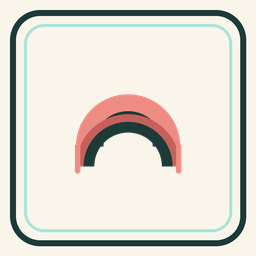
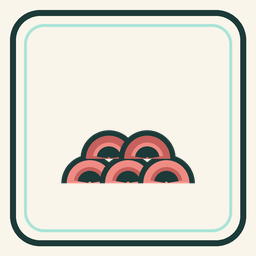
牌面微调：雨/瓦片/水鸟/露珠 四格辨识度
- 雨：三个圆各自描边像一排蘑菇 → 先铺整体轮廓色再铺云体，云形合并
- 瓦片：单道拱弧跟云、石桥撞脸 → 改成交错的两排半圆瓦当
- 水鸟：纯白描边在玉白底板上等于没有 → 身淡青、颈头深青、加眼睛
- 露珠：单颗太淡且像水滴 → 主珠改实心青 + 补一颗小露珠

Changed region(s): [[0.2188, 0.3438, 0.7812, 0.7188]]

diff --git a/Tools/tile_theme/make_tiles.py b/Tools/tile_theme/make_tiles.py
@@ -250,10 +250,12 @@ def i_bridge(d):
 
 
 def i_tile(d):
-    arc(d, 128, 152, 68, 180, 360, CORAL, 22)
-    arc(d, 128, 178, 68, 180, 360, CORAL_D, 10)
-    line(d, [(62, 152), (62, 184)], CORAL, 7)
-    line(d, [(194, 152), (194, 184)], CORAL, 7)
+    # 瓦：两排交错的半圆瓦当。单道拱弧会跟"雨"里的云、跟石桥撞脸
+    for cy, xs, col, rim in ((200, (78, 128, 178), CORAL, CORAL_D),
+                             (168, (103, 153), CORAL_D, CORAL)):
+        for cx in xs:
+            pieslice(d, cx - 30, cy - 30, cx + 30, cy + 30, 180, 360, col)
+            arc(d, cx, cy, 21, 190, 350, rim, 5)
 
 
 def i_caltrop(d):
@@ -262,8 +264,11 @@ def i_caltrop(d):
 
 
 def i_dew(d):
-    poly(d, [(128, 56), (170, 128), (160, 176), (96, 176), (86, 128)], TEAL_L)
-    ell(d, 108, 112, 13, 17, WHITE, ow=X(1))
+    poly(d, [(120, 58), (162, 130), (152, 176), (88, 176), (78, 130)], TEAL)
+    ell(d, 100, 116, 12, 16, WHITE, ow=X(1))
+    # 一颗容易被当成"水滴"，补一颗小的才读得出是"露"
+    ell(d, 186, 168, 21, 21, TEAL_L, ow=X(2))
+    ell(d, 179, 161, 6, 6, WHITE, ow=X(1))
 
 
 def i_moon(d):
@@ -288,20 +293,28 @@ def i_cloud(d):
 
 
 def i_rain(d):
-    ell(d, 128, 104, 38, 30, BLUE)
-    ell(d, 92, 116, 26, 21, BLUE, ow=X(3))
-    ell(d, 164, 116, 26, 21, BLUE, ow=X(3))
-    for x in (98, 128, 158):
-        line(d, [(x, 146), (x - 5, 180)], BLUE_D, 7)
+    # 三个圆如果各自描边，看着像一排蘑菇；先铺一遍"描边色"的整体轮廓，再铺云体
+    bumps = [(128, 106, 40, 32), (92, 120, 27, 22), (166, 120, 27, 22)]
+    for (cx, cy, rx, ry) in bumps:
+        ell(d, cx, cy, rx + 4, ry + 4, INK)
+    rrect(d, 62, 118, 194, 156, 18, INK)
+    for (cx, cy, rx, ry) in bumps:
+        ell(d, cx, cy, rx, ry, BLUE)
+    rrect(d, 66, 122, 190, 152, 14, BLUE)
+    for x in (96, 128, 160):
+        line(d, [(x, 158), (x - 6, 190)], BLUE_D, 7)
 
 
 def i_bird(d):
-    ell(d, 124, 142, 42, 26, WHITE)
-    line(d, [(150, 122), (184, 92)], WHITE, 9)
-    ell(d, 190, 86, 12, 10, WHITE, ow=X(2.5))
-    line(d, [(198, 84), (216, 88)], GOLD, 5)
-    line(d, [(110, 162), (106, 208)], GOLD, 5)
-    line(d, [(132, 164), (134, 210)], GOLD, 5)
+    # 身子用淡青、颈头用深青：纯白描边在玉白底板上等于没有
+    ell(d, 124, 142, 42, 26, TEAL_L)
+    ell(d, 116, 136, 24, 14, WHITE, ow=X(1))
+    line(d, [(148, 126), (180, 96)], TEAL, 9)
+    ell(d, 188, 88, 13, 11, TEAL, ow=X(2.5))
+    ell(d, 192, 85, 4, 4, WHITE, ow=X(1))
+    line(d, [(199, 86), (217, 90)], GOLD, 5)
+    line(d, [(110, 160), (106, 200)], GOLD, 5)
+    line(d, [(132, 162), (134, 204)], GOLD, 5)
 
 
 def i_snail(d):
